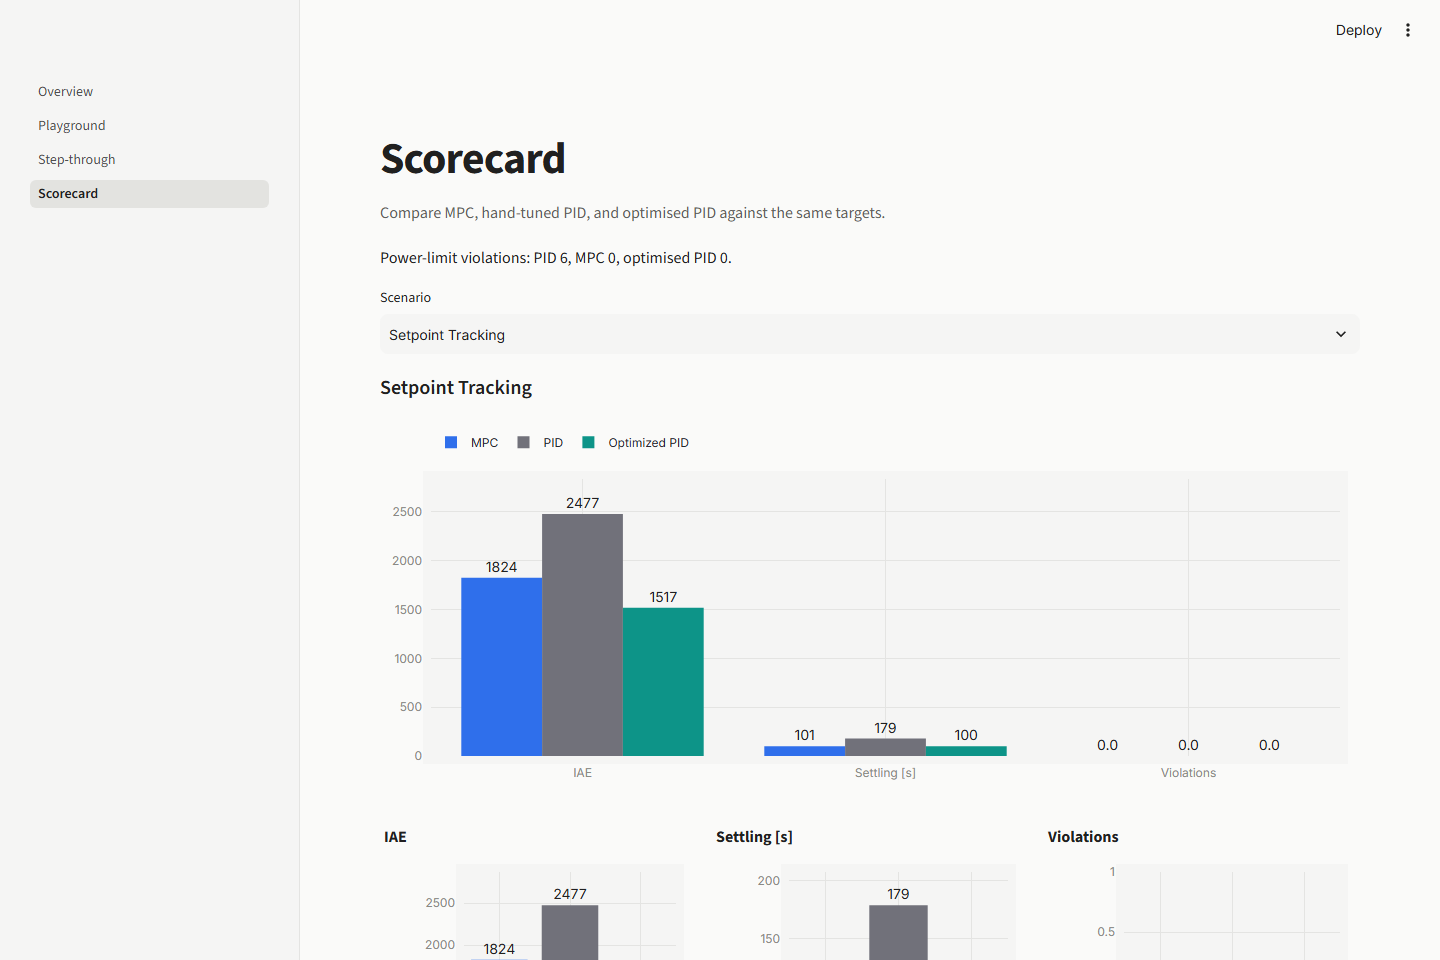
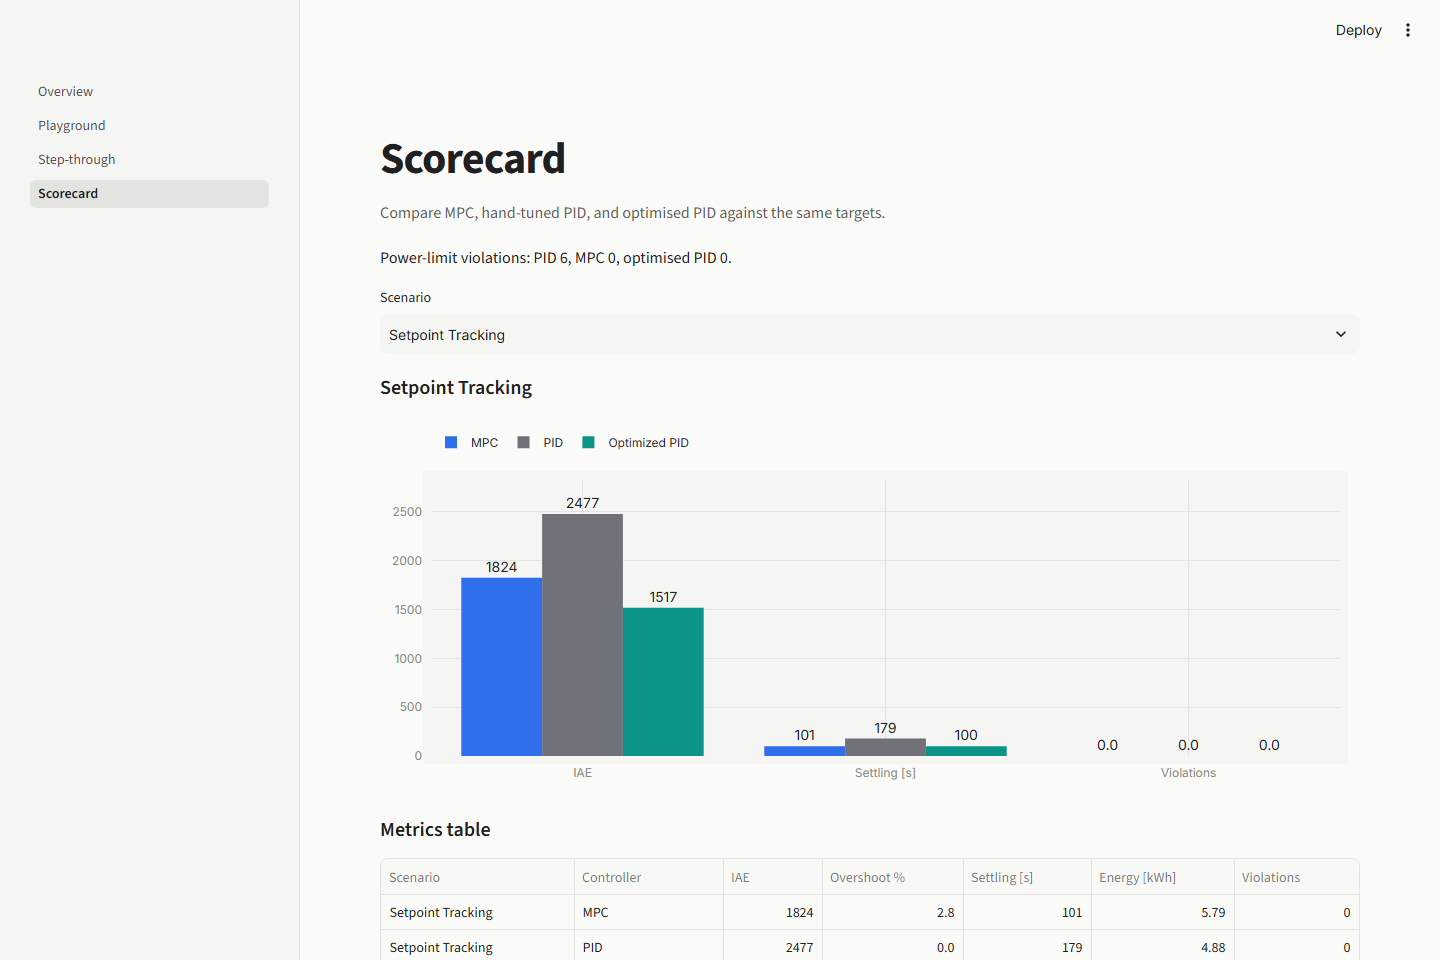
fix(ui): simplify scorecard chart layout

diff --git a/ui_pages/scorecard.py b/ui_pages/scorecard.py
@@ -10,7 +10,7 @@ from mpc_core.sim.copy_text import (
     SCORECARD_POWER_TEMPLATE,
     SCORECARD_TITLE,
 )
-from mpc_core.sim.plotly_charts import grouped_metrics_figure, metrics_bar_chart
+from mpc_core.sim.plotly_charts import grouped_metrics_figure
 from mpc_core.sim.ui import inject_styles, page_header
 from mpc_core.sim.ui_cache import load_scorecard_rows
 
@@ -51,17 +51,6 @@ fig = grouped_metrics_figure(
     title="",
 )
 st.plotly_chart(fig, use_container_width=True)
-
-detail_cols = st.columns(3)
-for col, metric in zip(detail_cols, ("IAE", "Settling [s]", "Violations")):
-    with col:
-        fig_m = metrics_bar_chart(
-            subset["Controller"].tolist(),
-            subset[metric].fillna(0).tolist(),
-            title=metric,
-            y_title=metric,
-        )
-        st.plotly_chart(fig_m, use_container_width=True)
 
 st.markdown("##### Metrics table")
 st.dataframe(

diff --git a/src/mpc_core/sim/plotly_charts.py b/src/mpc_core/sim/plotly_charts.py
@@ -334,13 +334,17 @@ def grouped_metrics_figure(
         )
     layout_kwargs: dict = dict(
         barmode="group",
-        height=400,
-        margin=dict(l=40, r=20, t=36, b=72),
-        legend=dict(orientation="h", yanchor="top", y=-0.18, x=0, xanchor="left"),
+        height=380,
+        margin=dict(l=40, r=20, t=56, b=48),
+        legend=dict(orientation="h", yanchor="bottom", y=1.02, x=0, xanchor="left"),
     )
     if title:
         layout_kwargs["title"] = dict(
             text=title, font=dict(size=16, color=TEXT_PRIMARY), y=0.98
+        )
+        layout_kwargs["margin"] = dict(l=40, r=20, t=72, b=48)
+        layout_kwargs["legend"] = dict(
+            orientation="h", yanchor="top", y=-0.2, x=0, xanchor="left"
         )
         layout_kwargs["margin"] = dict(l=40, r=20, t=56, b=72)
     fig.update_layout(**_base_layout(**layout_kwargs))
